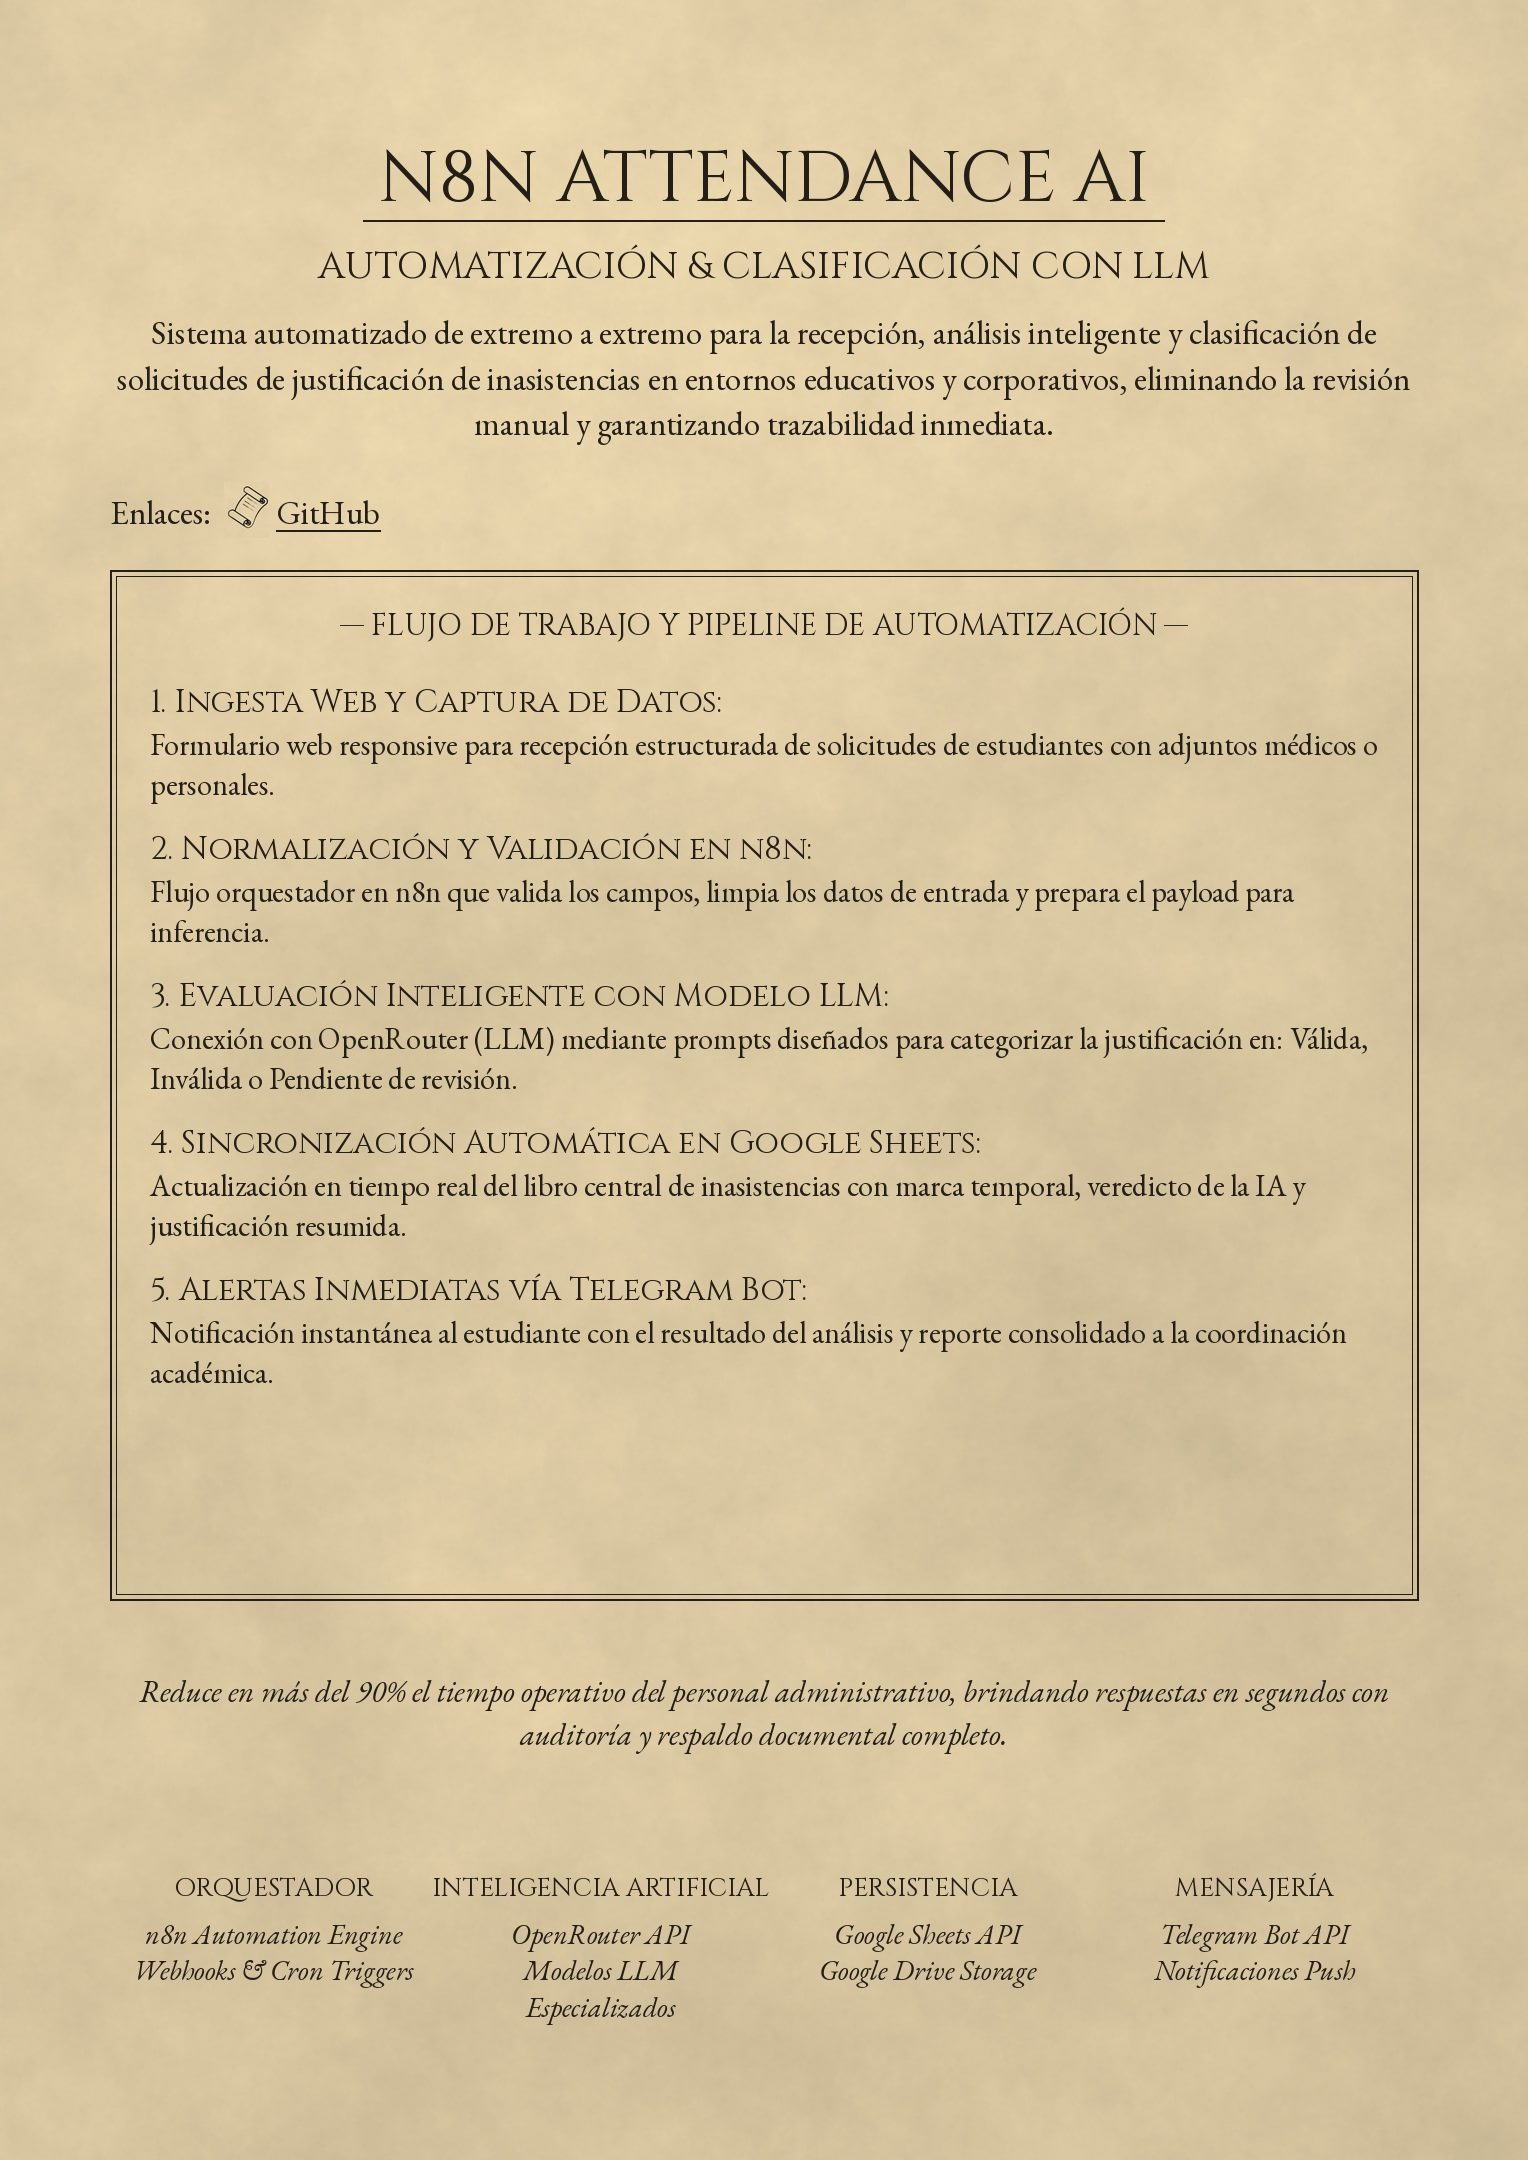
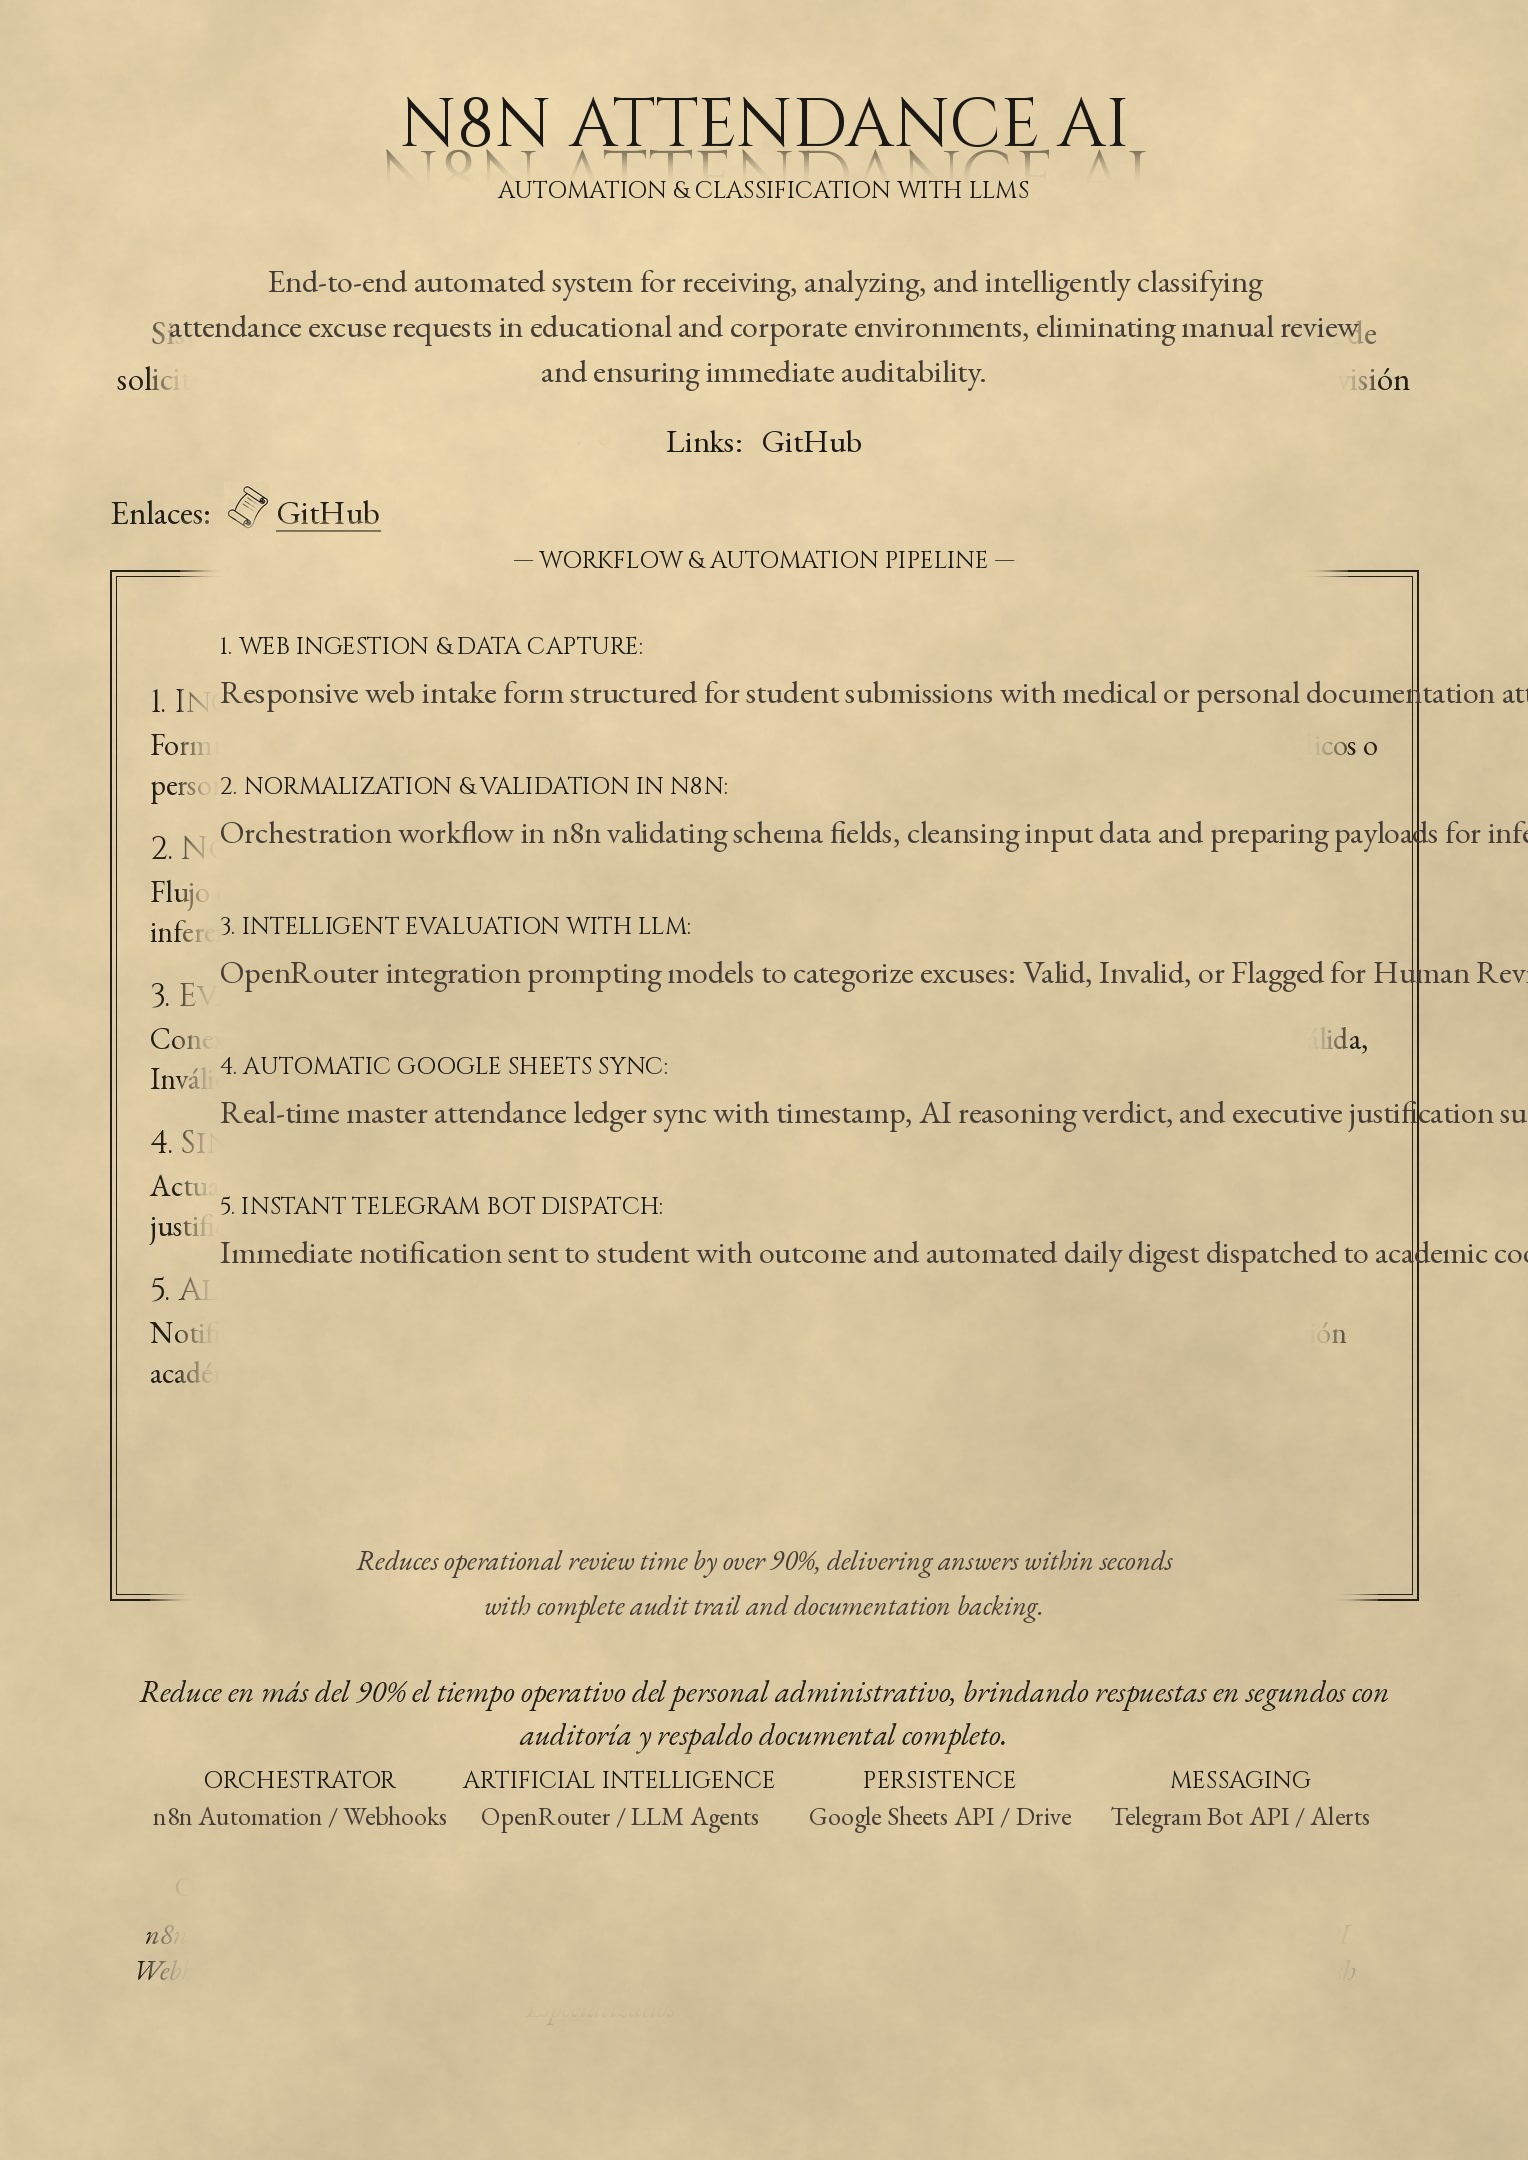
fix(i18n): eliminar parpadeo negro, corregir texturas de pergamino y traducir proyectos
- Corregir pantalla negra al cambiar idioma usando callbacks asincronos onLoad y precarga de texturas en memoria
- Eliminar parche negro en interests.jpg utilizando clonacion de textura de pergamino limpio (blank.jpg) con difuminado suave
- Traducir paginas completas del libro: Habilidades (Technical Skills), Intereses (Cybersecurity, 3D Animation, Data Engineering), LogiTrack WMS (Enterprise Logistics), n8n Attendance AI (Automation & LLMs) y capitulos

diff --git a/src/page.ts b/src/page.ts
@@ -332,8 +332,7 @@ export default class Page {
 	}
 
 	public updateTextures(frontUrl: string, backUrl: string) {
-		const loadTexture = (url: string) => {
-			const texture = this.textureLoader.load(url);
+		const applyTextureSettings = (texture: THREE.Texture) => {
 			texture.colorSpace = THREE.SRGBColorSpace;
 			if (this.isMobile) {
 				texture.generateMipmaps = false;
@@ -346,19 +345,25 @@ export default class Page {
 				texture.magFilter = THREE.LinearFilter;
 				texture.anisotropy = this.maxAnisotropy;
 			}
-			return texture;
+			texture.needsUpdate = true;
 		};
 
 		if (Array.isArray(this.mesh.material)) {
 			const backMat = this.mesh.material[0] as THREE.MeshStandardMaterial;
 			const frontMat = this.mesh.material[1] as THREE.MeshStandardMaterial;
-			if (backMat) {
-				backMat.map = loadTexture(backUrl);
-				backMat.needsUpdate = true;
+			if (backMat && backUrl) {
+				this.textureLoader.load(backUrl, (loadedTex) => {
+					applyTextureSettings(loadedTex);
+					backMat.map = loadedTex;
+					backMat.needsUpdate = true;
+				});
 			}
-			if (frontMat) {
-				frontMat.map = loadTexture(frontUrl);
-				frontMat.needsUpdate = true;
+			if (frontMat && frontUrl) {
+				this.textureLoader.load(frontUrl, (loadedTex) => {
+					applyTextureSettings(loadedTex);
+					frontMat.map = loadedTex;
+					frontMat.needsUpdate = true;
+				});
 			}
 		}
 	}

diff --git a/src/main.ts b/src/main.ts
@@ -305,6 +305,10 @@ function init() {
 		window.flipbook.setActiveAreas(getActiveAreas(newLang, pageWidth, pageHeight));
 		window.flipbook.updatePageTextures(getPageTextureUrls(newLang, _url));
 	});
+
+	// Preload alternate language textures in background to ensure zero lag and zero flicker
+	const alternateLang = initialLang === "es" ? "en" : "es";
+	window.flipbook.preloadTextures(getPageTextureUrls(alternateLang, _url));
 }
 
 if (document.readyState === "loading") {

diff --git a/src/flipbook.ts b/src/flipbook.ts
@@ -1551,4 +1551,15 @@ export default class Flipbook {
 			}
 		}
 	}
+
+	public preloadTextures(urls: string[]): void {
+		setTimeout(() => {
+			urls.forEach(url => {
+				if (url) {
+					const img = new Image();
+					img.src = url;
+				}
+			});
+		}, 1500);
+	}
 }
